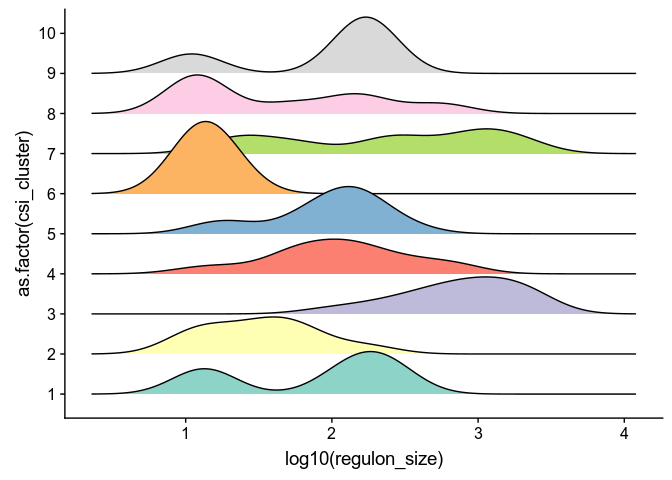
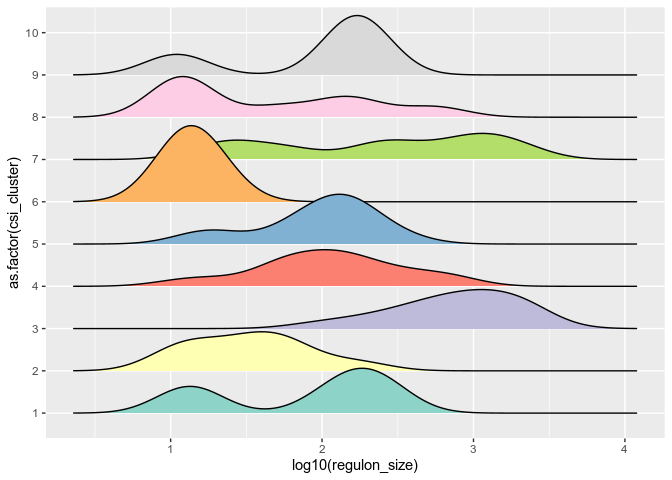
Updated standard SCENIC tutorial. Added nextflow functions (alpha versions).

Changed region(s): [[0.0, 0.0625, 0.9688, 1.0], [0.5, 0.0312, 0.5938, 0.0938], [0.0312, 0.0625, 0.125, 0.0938]]

diff --git a/Tutorials/process_SCENIC.md b/Tutorials/process_SCENIC.md
@@ -1,6 +1,7 @@
 Processing and visualization of SCENIC results
 ================
 Florian Wuennemann
+March 22, 2005
 
 # Introduction
 
@@ -145,6 +146,8 @@ contains all of the binary regulons so that we can use them to calculate
 RRS scores.
 
 ``` r
+library(tidyverse)
+
 joined_bin_reg <- binary_regulons %>%
     reduce(left_join,by="cells")
 
@@ -245,6 +248,13 @@ head(metadata_sub)
 Now that we are ready to calculate the RSS for all regulons over all
 cell types.
 
+``` r
+rrs_df <- calculate_rrs(metadata_sub,
+              binary_regulons = binary_regulons_trans)
+```
+
+    ## Loading required package: philentropy
+
 The output is a data frame with a RSS score for each regulon - cell type
 combination.
 
@@ -285,11 +295,16 @@ plot_rrs_ranking(rrs_df,
     ## Loading required package: cowplot
 
     ## 
-    ## Attaching package: 'cowplot'
+    ## ********************************************************
 
-    ## The following object is masked from 'package:ggplot2':
-    ## 
-    ##     ggsave
+    ## Note: As of version 1.0.0, cowplot does not change the
+
+    ##   default ggplot2 theme anymore. To recover the previous
+
+    ##   behavior, execute:
+    ##   theme_set(theme_cowplot())
+
+    ## ********************************************************
 
 ![](process_SCENIC_files/figure-gfm/unnamed-chunk-12-1.png)<!-- -->
 
@@ -299,16 +314,6 @@ types.
 
 ``` r
 library(ggridges)
-```
-
-    ## 
-    ## Attaching package: 'ggridges'
-
-    ## The following object is masked from 'package:ggplot2':
-    ## 
-    ##     scale_discrete_manual
-
-``` r
 rrs_df_nona <- subset(rrs_df,RSS > 0)
 ggplot(rrs_df_nona,aes(RSS,cell_type, fill = cell_type)) +
   geom_density_ridges(scale = 5, alpha = 0.75) +
@@ -316,7 +321,7 @@ ggplot(rrs_df_nona,aes(RSS,cell_type, fill = cell_type)) +
   theme(legend.position = "none")
 ```
 
-    ## Picking joint bandwidth of 0.0137
+    ## Picking joint bandwidth of 0.0138
 
 ![](process_SCENIC_files/figure-gfm/unnamed-chunk-13-1.png)<!-- -->
 
@@ -577,7 +582,8 @@ binary_regulons_trans <- as.matrix(t(joined_bin_reg))
 
 ## RRS
 rrs_df <- calculate_rrs(metadata_sub,
-              binary_regulons = binary_regulons_trans)
+              binary_regulons = binary_regulons_trans,
+              cell_type_column = "cell_type")
 
 rrs_df_wide <- rrs_df %>%
   spread(cell_type,RSS)
@@ -630,7 +636,7 @@ csi_cluster_activity_wide <- calc_csi_module_activity(clusters_df,
 sessionInfo()
 ```
 
-    ## R version 3.6.0 (2019-04-26)
+    ## R version 3.6.1 (2019-07-05)
     ## Platform: x86_64-pc-linux-gnu (64-bit)
     ## Running under: Ubuntu 18.04.2 LTS
     ## 
@@ -651,66 +657,70 @@ sessionInfo()
     ## 
     ## other attached packages:
     ##  [1] pheatmap_1.0.12        heatmaply_0.16.0       viridis_0.5.1         
-    ##  [4] viridisLite_0.3.0      plotly_4.9.0           ggridges_0.5.1        
-    ##  [7] cowplot_0.9.4          ggrepel_0.8.1          philentropy_0.3.0     
+    ##  [4] viridisLite_0.3.0      plotly_4.9.2           ggridges_0.5.2        
+    ##  [7] cowplot_1.0.0          ggrepel_0.8.1          philentropy_0.3.0     
     ## [10] svMisc_1.1.0           SCENIC_1.0.1-01        forcats_0.4.0         
-    ## [13] stringr_1.4.0          dplyr_0.8.1            purrr_0.3.2           
-    ## [16] readr_1.3.1            tidyr_0.8.3            tibble_2.1.2          
-    ## [19] ggplot2_3.1.1          tidyverse_1.2.1        scFunctions_0.0.0.9000
+    ## [13] stringr_1.4.0          dplyr_0.8.4            purrr_0.3.3           
+    ## [16] readr_1.3.1            tidyr_1.0.2            tibble_2.1.3          
+    ## [19] ggplot2_3.2.1          tidyverse_1.2.1        scFunctions_0.0.0.9000
     ## 
     ## loaded via a namespace (and not attached):
-    ##   [1] colorspace_1.4-1            XVector_0.24.0             
-    ##   [3] GenomicRanges_1.36.0        rstudioapi_0.10            
-    ##   [5] bit64_0.9-7                 AnnotationDbi_1.46.0       
-    ##   [7] lubridate_1.7.4             xml2_1.2.0                 
-    ##   [9] codetools_0.2-16            R.methodsS3_1.7.1          
-    ##  [11] knitr_1.23                  jsonlite_1.6               
-    ##  [13] broom_0.5.2                 annotate_1.62.0            
-    ##  [15] cluster_2.0.9               R.oo_1.22.0                
-    ##  [17] graph_1.62.0                shiny_1.3.2                
-    ##  [19] compiler_3.6.0              httr_1.4.0                 
-    ##  [21] backports_1.1.4             assertthat_0.2.1           
-    ##  [23] Matrix_1.2-17               lazyeval_0.2.2             
-    ##  [25] cli_1.1.0                   later_0.8.0                
-    ##  [27] htmltools_0.3.6             tools_3.6.0                
-    ##  [29] gtable_0.3.0                glue_1.3.1                 
-    ##  [31] GenomeInfoDbData_1.2.1      reshape2_1.4.3             
-    ##  [33] Rcpp_1.0.1                  Biobase_2.44.0             
-    ##  [35] cellranger_1.1.0            gdata_2.18.0               
-    ##  [37] nlme_3.1-140                crosstalk_1.0.0            
-    ##  [39] iterators_1.0.10            xfun_0.7                   
-    ##  [41] ps_1.3.0                    rvest_0.3.4                
-    ##  [43] mime_0.6                    gtools_3.8.1               
-    ##  [45] XML_3.98-1.19               dendextend_1.12.0          
-    ##  [47] MASS_7.3-51.4               zlibbioc_1.30.0            
-    ##  [49] scales_1.0.0                TSP_1.1-7                  
-    ##  [51] hms_0.4.2                   promises_1.0.1             
-    ##  [53] parallel_3.6.0              SummarizedExperiment_1.14.0
-    ##  [55] RColorBrewer_1.1-2          yaml_2.2.0                 
-    ##  [57] memoise_1.1.0               gridExtra_2.3              
-    ##  [59] stringi_1.4.3               RSQLite_2.1.1              
-    ##  [61] gclus_1.3.2                 S4Vectors_0.22.0           
-    ##  [63] foreach_1.4.4               seriation_1.2-5            
-    ##  [65] caTools_1.17.1.2            BiocGenerics_0.30.0        
-    ##  [67] BiocParallel_1.18.0         GenomeInfoDb_1.20.0        
-    ##  [69] rlang_0.3.4                 pkgconfig_2.0.2            
-    ##  [71] matrixStats_0.54.0          bitops_1.0-6               
-    ##  [73] AUCell_1.7.1                evaluate_0.14              
-    ##  [75] lattice_0.20-38             htmlwidgets_1.3            
-    ##  [77] labeling_0.3                processx_3.3.1             
-    ##  [79] bit_1.1-14                  tidyselect_0.2.5           
-    ##  [81] GSEABase_1.46.0             plyr_1.8.4                 
-    ##  [83] magrittr_1.5                R6_2.4.0                   
-    ##  [85] gplots_3.0.1.1              IRanges_2.18.1             
-    ##  [87] generics_0.0.2              DelayedArray_0.10.0        
-    ##  [89] DBI_1.0.0                   pillar_1.4.1               
-    ##  [91] haven_2.1.0                 withr_2.1.2                
-    ##  [93] RCurl_1.95-4.12             modelr_0.1.4               
-    ##  [95] crayon_1.3.4                KernSmooth_2.23-15         
-    ##  [97] rmarkdown_1.13              grid_3.6.0                 
-    ##  [99] readxl_1.3.1                data.table_1.12.2          
-    ## [101] callr_3.2.0                 blob_1.1.1                 
-    ## [103] digest_0.6.19               webshot_0.5.1              
-    ## [105] xtable_1.8-4                httpuv_1.5.1               
-    ## [107] R.utils_2.8.0               stats4_3.6.0               
-    ## [109] munsell_0.5.0               registry_0.5-1
+    ##   [1] readxl_1.3.1                backports_1.1.5            
+    ##   [3] plyr_1.8.5                  lazyeval_0.2.2             
+    ##   [5] GSEABase_1.46.0             BiocParallel_1.18.1        
+    ##   [7] crosstalk_1.0.0             GenomeInfoDb_1.20.0        
+    ##   [9] digest_0.6.24               foreach_1.4.7              
+    ##  [11] htmltools_0.4.0             gdata_2.18.0               
+    ##  [13] fansi_0.4.1                 magrittr_1.5               
+    ##  [15] memoise_1.1.0               cluster_2.1.0              
+    ##  [17] gclus_1.3.2                 annotate_1.62.0            
+    ##  [19] modelr_0.1.5                matrixStats_0.54.0         
+    ##  [21] R.utils_2.9.0               colorspace_1.4-1           
+    ##  [23] blob_1.2.0                  rvest_0.3.4                
+    ##  [25] haven_2.1.1                 xfun_0.9                   
+    ##  [27] callr_3.3.1                 crayon_1.3.4               
+    ##  [29] RCurl_1.95-4.12             jsonlite_1.6.1             
+    ##  [31] graph_1.62.0                iterators_1.0.12           
+    ##  [33] glue_1.3.1                  registry_0.5-1             
+    ##  [35] gtable_0.3.0                zlibbioc_1.30.0            
+    ##  [37] XVector_0.24.0              webshot_0.5.1              
+    ##  [39] DelayedArray_0.10.0         BiocGenerics_0.30.0        
+    ##  [41] scales_1.1.0                DBI_1.0.0                  
+    ##  [43] Rcpp_1.0.3                  xtable_1.8-4               
+    ##  [45] bit_1.1-15.2                stats4_3.6.1               
+    ##  [47] htmlwidgets_1.5.1           httr_1.4.1                 
+    ##  [49] gplots_3.0.1.2              RColorBrewer_1.1-2         
+    ##  [51] ellipsis_0.3.0              pkgconfig_2.0.3            
+    ##  [53] XML_3.99-0.3                R.methodsS3_1.7.1          
+    ##  [55] farver_2.0.3                tidyselect_1.0.0           
+    ##  [57] labeling_0.3                rlang_0.4.4                
+    ##  [59] reshape2_1.4.3              later_1.0.0                
+    ##  [61] AnnotationDbi_1.46.0        munsell_0.5.0              
+    ##  [63] cellranger_1.1.0            tools_3.6.1                
+    ##  [65] cli_2.0.1                   generics_0.0.2             
+    ##  [67] RSQLite_2.1.2               broom_0.5.2                
+    ##  [69] evaluate_0.14               fastmap_1.0.1              
+    ##  [71] yaml_2.2.1                  processx_3.4.1             
+    ##  [73] knitr_1.24                  bit64_0.9-7                
+    ##  [75] caTools_1.18.0              dendextend_1.12.0          
+    ##  [77] nlme_3.1-141                mime_0.9                   
+    ##  [79] R.oo_1.22.0                 xml2_1.2.2                 
+    ##  [81] compiler_3.6.1              rstudioapi_0.10            
+    ##  [83] stringi_1.4.6               ps_1.3.0                   
+    ##  [85] lattice_0.20-38             Matrix_1.2-17              
+    ##  [87] vctrs_0.2.2                 pillar_1.4.3               
+    ##  [89] lifecycle_0.1.0             data.table_1.12.8          
+    ##  [91] bitops_1.0-6                seriation_1.2-7            
+    ##  [93] httpuv_1.5.2                AUCell_1.7.1               
+    ##  [95] GenomicRanges_1.36.0        R6_2.4.1                   
+    ##  [97] promises_1.1.0              TSP_1.1-7                  
+    ##  [99] KernSmooth_2.23-15          gridExtra_2.3              
+    ## [101] IRanges_2.18.1              codetools_0.2-16           
+    ## [103] MASS_7.3-51.4               gtools_3.8.1               
+    ## [105] assertthat_0.2.1            SummarizedExperiment_1.14.1
+    ## [107] withr_2.1.2                 S4Vectors_0.22.0           
+    ## [109] GenomeInfoDbData_1.2.1      parallel_3.6.1             
+    ## [111] hms_0.5.0                   grid_3.6.1                 
+    ## [113] rmarkdown_1.14              Cairo_1.5-10               
+    ## [115] Biobase_2.44.0              shiny_1.4.0                
+    ## [117] lubridate_1.7.4
